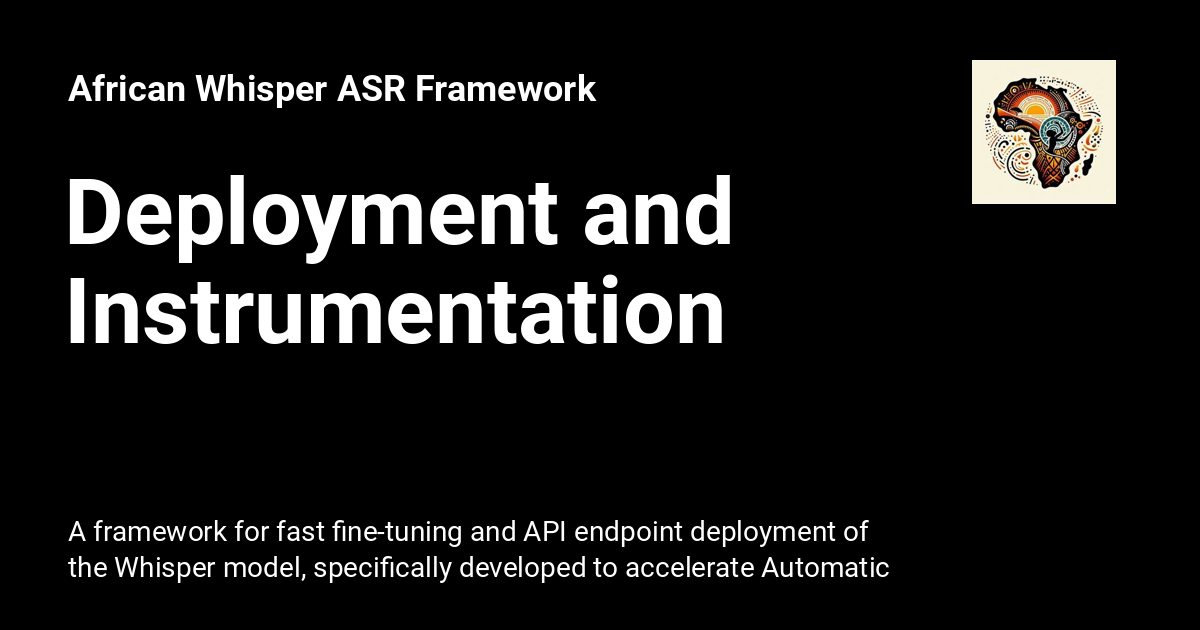
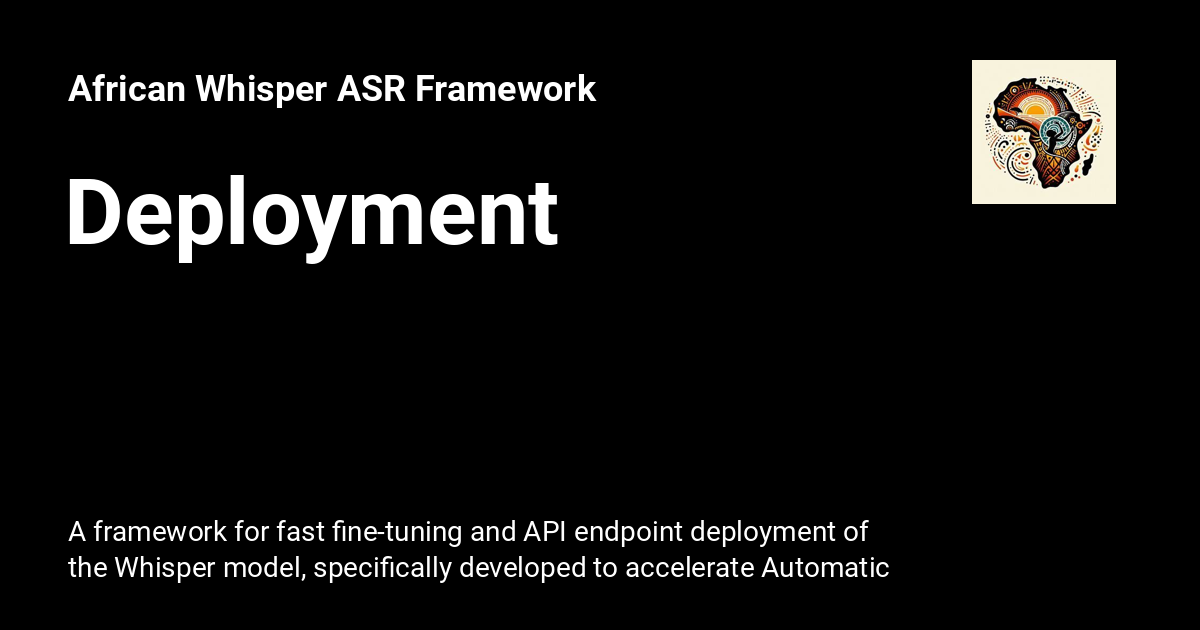
Deployed d82b1ae with MkDocs version: 1.6.0

Changed region(s): [[0.0308, 0.4222, 0.6167, 0.5429], [0.4625, 0.2714, 0.6167, 0.3921]]

diff --git a/deployment/index.html b/deployment/index.html
@@ -11,6 +11,10 @@
       
       
       
+        <link rel="prev" href="../gettingstarted/">
+      
+      
+        <link rel="next" href="../CONTRIBUTING/">
       
       
       <link rel="icon" href="../logo_image.ico">
@@ -18,7 +22,7 @@
     
     
       
-        <title>Deployment and Instrumentation - African Whisper ASR Framework</title>
+        <title>Deployment - African Whisper ASR Framework</title>
       
     
     
@@ -55,7 +59,7 @@
       
         <meta  property="og:type"  content="website" >
       
-        <meta  property="og:title"  content="Deployment and Instrumentation - African Whisper ASR Framework" >
+        <meta  property="og:title"  content="Deployment - African Whisper ASR Framework" >
       
         <meta  property="og:description"  content="A framework for fast fine-tuning and API endpoint deployment of the Whisper model, specifically developed to accelerate Automatic Speech Recognition (ASR) for African languages." >
       
@@ -71,7 +75,7 @@
       
         <meta  name="twitter:card"  content="summary_large_image" >
       
-        <meta  name="twitter:title"  content="Deployment and Instrumentation - African Whisper ASR Framework" >
+        <meta  name="twitter:title"  content="Deployment - African Whisper ASR Framework" >
       
         <meta  name="twitter:description"  content="A framework for fast fine-tuning and API endpoint deployment of the Whisper model, specifically developed to accelerate Automatic Speech Recognition (ASR) for African languages." >
       
@@ -142,7 +146,7 @@
         <div class="md-header__topic" data-md-component="header-topic">
           <span class="md-ellipsis">
             
-              Deployment and Instrumentation
+              Deployment
             
           </span>
         </div>
@@ -284,10 +288,30 @@
       
   
   
+    
   
   
-    <li class="md-nav__item">
-      <a href="../DEPLOYMENT.md" class="md-nav__link">
+  
+    <li class="md-nav__item md-nav__item--active">
+      
+      <input class="md-nav__toggle md-toggle" type="checkbox" id="__toc">
+      
+      
+        
+      
+      
+        <label class="md-nav__link md-nav__link--active" for="__toc">
+          
+  
+  <span class="md-ellipsis">
+    Deployment
+  </span>
+  
+
+          <span class="md-nav__icon md-icon"></span>
+        </label>
+      
+      <a href="./" class="md-nav__link md-nav__link--active">
         
   
   <span class="md-ellipsis">
@@ -296,6 +320,119 @@
   
 
       </a>
+      
+        
+
+<nav class="md-nav md-nav--secondary" aria-label="Table of contents">
+  
+  
+  
+    
+  
+  
+    <label class="md-nav__title" for="__toc">
+      <span class="md-nav__icon md-icon"></span>
+      Table of contents
+    </label>
+    <ul class="md-nav__list" data-md-component="toc" data-md-scrollfix>
+      
+        <li class="md-nav__item">
+  <a href="#to_run_locally" class="md-nav__link">
+    <span class="md-ellipsis">
+      To run locally:
+    </span>
+  </a>
+  
+    <nav class="md-nav" aria-label="To run locally:">
+      <ul class="md-nav__list">
+        
+          <li class="md-nav__item">
+  <a href="#set_up_environment_variables" class="md-nav__link">
+    <span class="md-ellipsis">
+      Set up Environment Variables
+    </span>
+  </a>
+  
+</li>
+        
+          <li class="md-nav__item">
+  <a href="#run_application" class="md-nav__link">
+    <span class="md-ellipsis">
+      Run Application
+    </span>
+  </a>
+  
+</li>
+        
+      </ul>
+    </nav>
+  
+</li>
+      
+        <li class="md-nav__item">
+  <a href="#to_deploy_to_a_production_environment" class="md-nav__link">
+    <span class="md-ellipsis">
+      To deploy to a production environment:
+    </span>
+  </a>
+  
+    <nav class="md-nav" aria-label="To deploy to a production environment:">
+      <ul class="md-nav__list">
+        
+          <li class="md-nav__item">
+  <a href="#set_up_environment_variables_1" class="md-nav__link">
+    <span class="md-ellipsis">
+      Set up Environment Variables
+    </span>
+  </a>
+  
+</li>
+        
+          <li class="md-nav__item">
+  <a href="#run_application_1" class="md-nav__link">
+    <span class="md-ellipsis">
+      Run Application
+    </span>
+  </a>
+  
+</li>
+        
+          <li class="md-nav__item">
+  <a href="#test" class="md-nav__link">
+    <span class="md-ellipsis">
+      Test
+    </span>
+  </a>
+  
+</li>
+        
+          <li class="md-nav__item">
+  <a href="#set_up_monitoring" class="md-nav__link">
+    <span class="md-ellipsis">
+      Set up monitoring
+    </span>
+  </a>
+  
+</li>
+        
+      </ul>
+    </nav>
+  
+</li>
+      
+        <li class="md-nav__item">
+  <a href="#to_dockerize_and_semd_to_a_docker_registry" class="md-nav__link">
+    <span class="md-ellipsis">
+      To dockerize and semd to a docker registry
+    </span>
+  </a>
+  
+</li>
+      
+    </ul>
+  
+</nav>
+      
     </li>
   
 

diff --git a/gettingstarted/index.html b/gettingstarted/index.html
@@ -14,7 +14,7 @@
         <link rel="prev" href="..">
       
       
-        <link rel="next" href="../CONTRIBUTING/">
+        <link rel="next" href="../deployment/">
       
       
       <link rel="icon" href="../logo_image.ico">
@@ -403,7 +403,7 @@
   
   
     <li class="md-nav__item">
-      <a href="../DEPLOYMENT.md" class="md-nav__link">
+      <a href="../deployment/" class="md-nav__link">
         
   
   <span class="md-ellipsis">

diff --git a/CONTRIBUTING/index.html b/CONTRIBUTING/index.html
@@ -11,7 +11,7 @@
       
       
       
-        <link rel="prev" href="../gettingstarted/">
+        <link rel="prev" href="../deployment/">
       
       
         <link rel="next" href="../CODE_OF_CONDUCT/">
@@ -291,7 +291,7 @@
   
   
     <li class="md-nav__item">
-      <a href="../DEPLOYMENT.md" class="md-nav__link">
+      <a href="../deployment/" class="md-nav__link">
         
   
   <span class="md-ellipsis">

diff --git a/CODE_OF_CONDUCT/index.html b/CODE_OF_CONDUCT/index.html
@@ -289,7 +289,7 @@
   
   
     <li class="md-nav__item">
-      <a href="../DEPLOYMENT.md" class="md-nav__link">
+      <a href="../deployment/" class="md-nav__link">
         
   
   <span class="md-ellipsis">

diff --git a/PARAMETERS/index.html b/PARAMETERS/index.html
@@ -282,7 +282,7 @@
   
   
     <li class="md-nav__item">
-      <a href="../DEPLOYMENT.md" class="md-nav__link">
+      <a href="../deployment/" class="md-nav__link">
         
   
   <span class="md-ellipsis">

diff --git a/blog/index.html b/blog/index.html
@@ -287,7 +287,7 @@
   
   
     <li class="md-nav__item">
-      <a href="../DEPLOYMENT.md" class="md-nav__link">
+      <a href="../deployment/" class="md-nav__link">
         
   
   <span class="md-ellipsis">

diff --git a/home/index.html b/home/index.html
@@ -287,7 +287,7 @@
   
   
     <li class="md-nav__item">
-      <a href="../DEPLOYMENT.md" class="md-nav__link">
+      <a href="../deployment/" class="md-nav__link">
         
   
   <span class="md-ellipsis">

diff --git a/404.html b/404.html
@@ -247,7 +247,7 @@
   
   
     <li class="md-nav__item">
-      <a href="/DEPLOYMENT.md" class="md-nav__link">
+      <a href="/deployment/" class="md-nav__link">
         
   
   <span class="md-ellipsis">

diff --git a/index.html b/index.html
@@ -352,7 +352,7 @@
   
   
     <li class="md-nav__item">
-      <a href="DEPLOYMENT.md" class="md-nav__link">
+      <a href="deployment/" class="md-nav__link">
         
   
   <span class="md-ellipsis">
